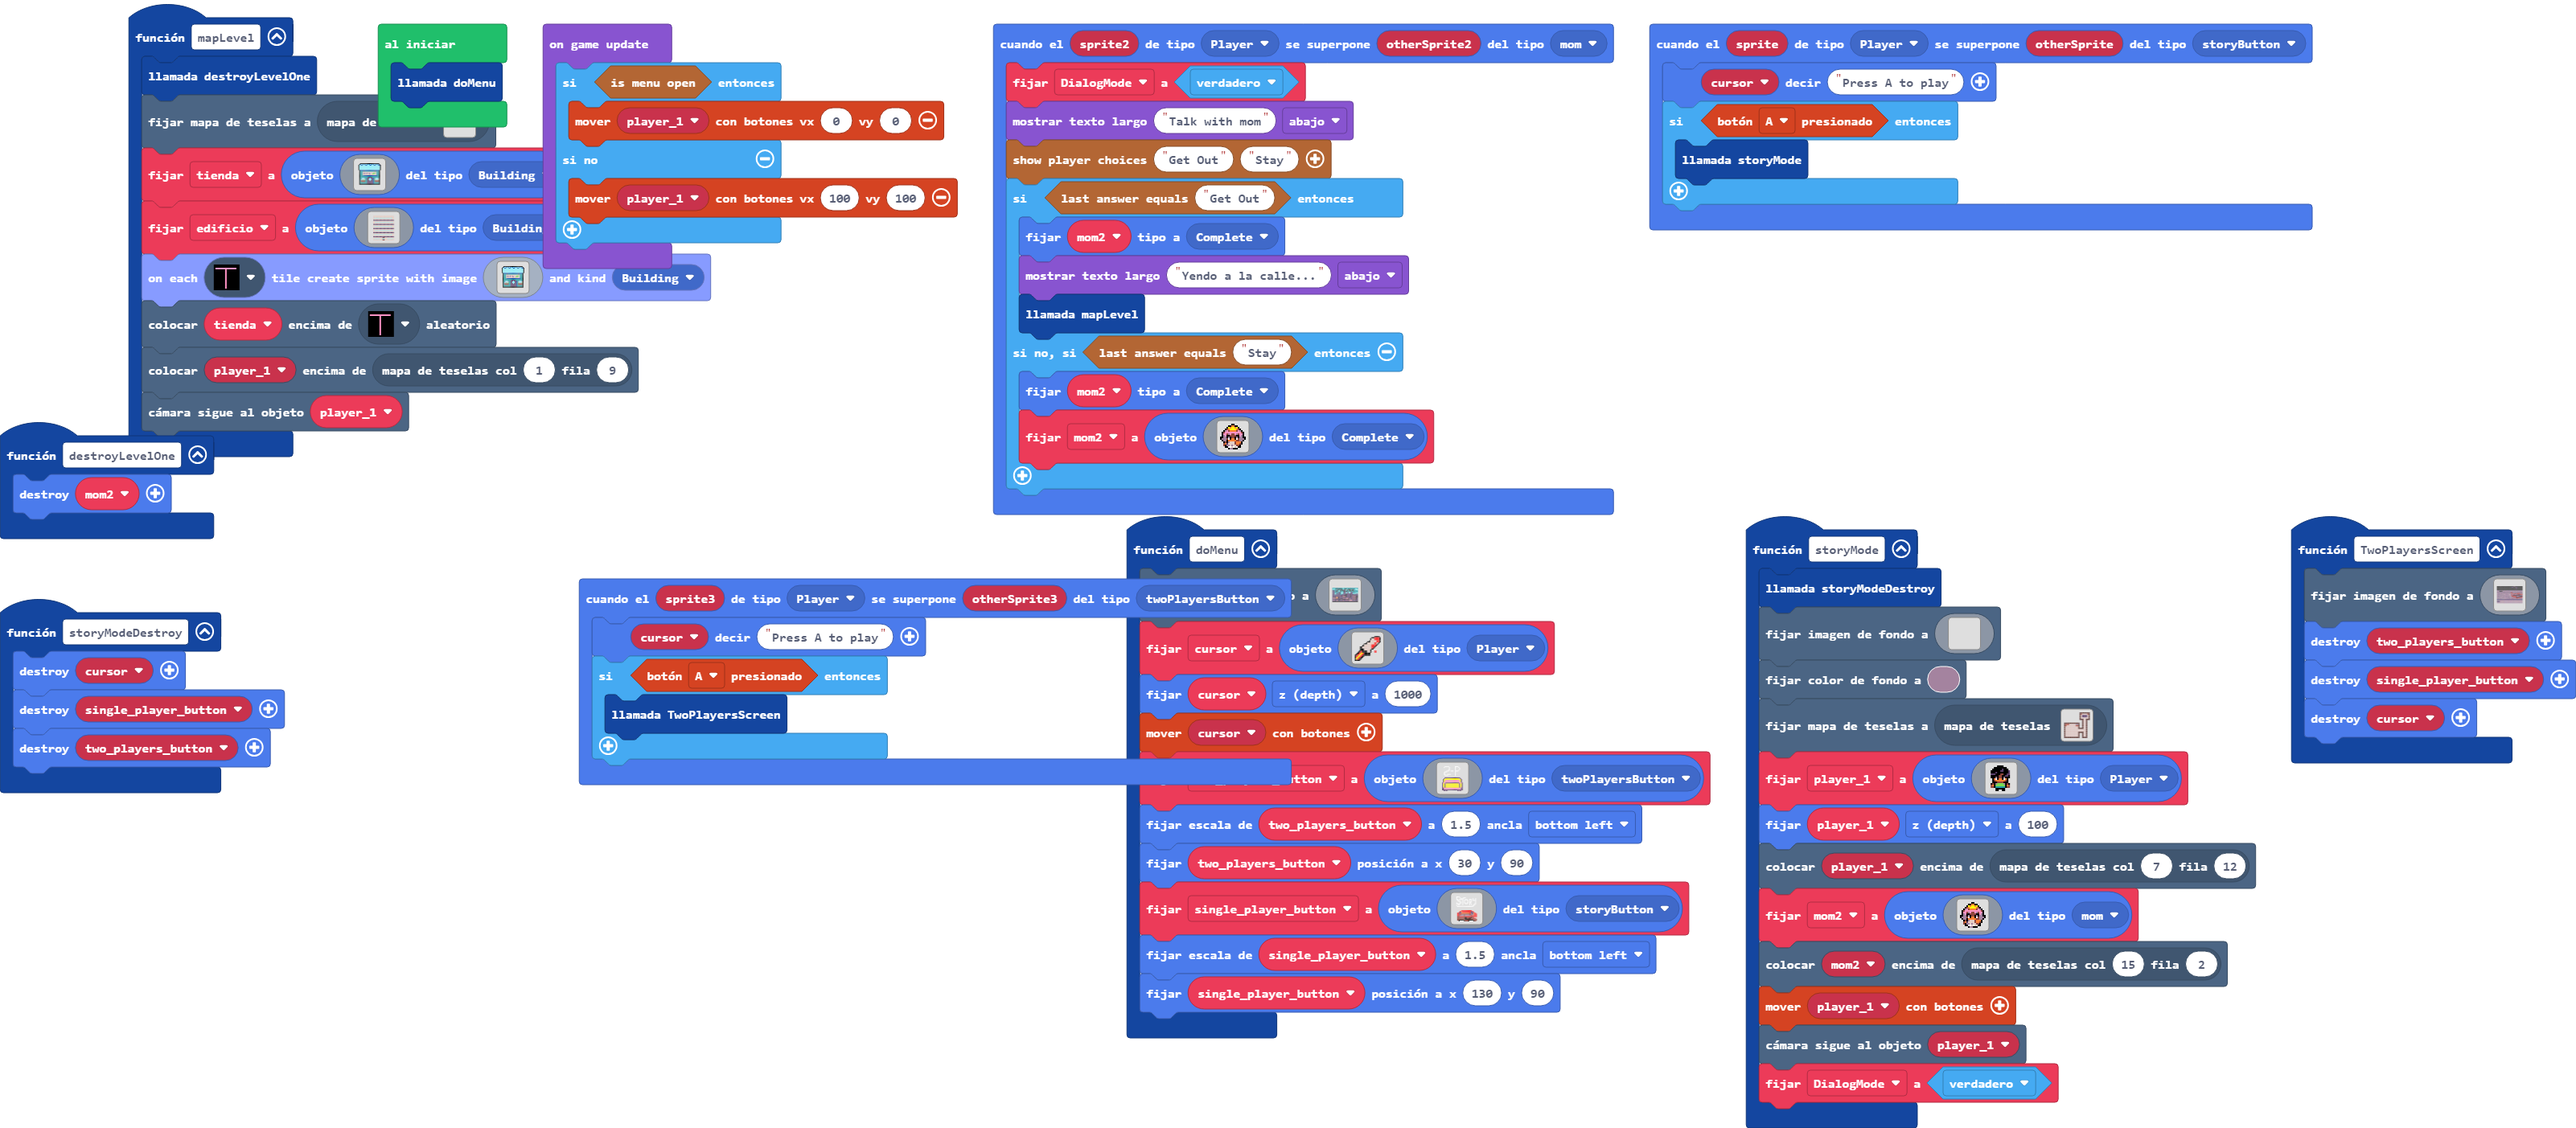
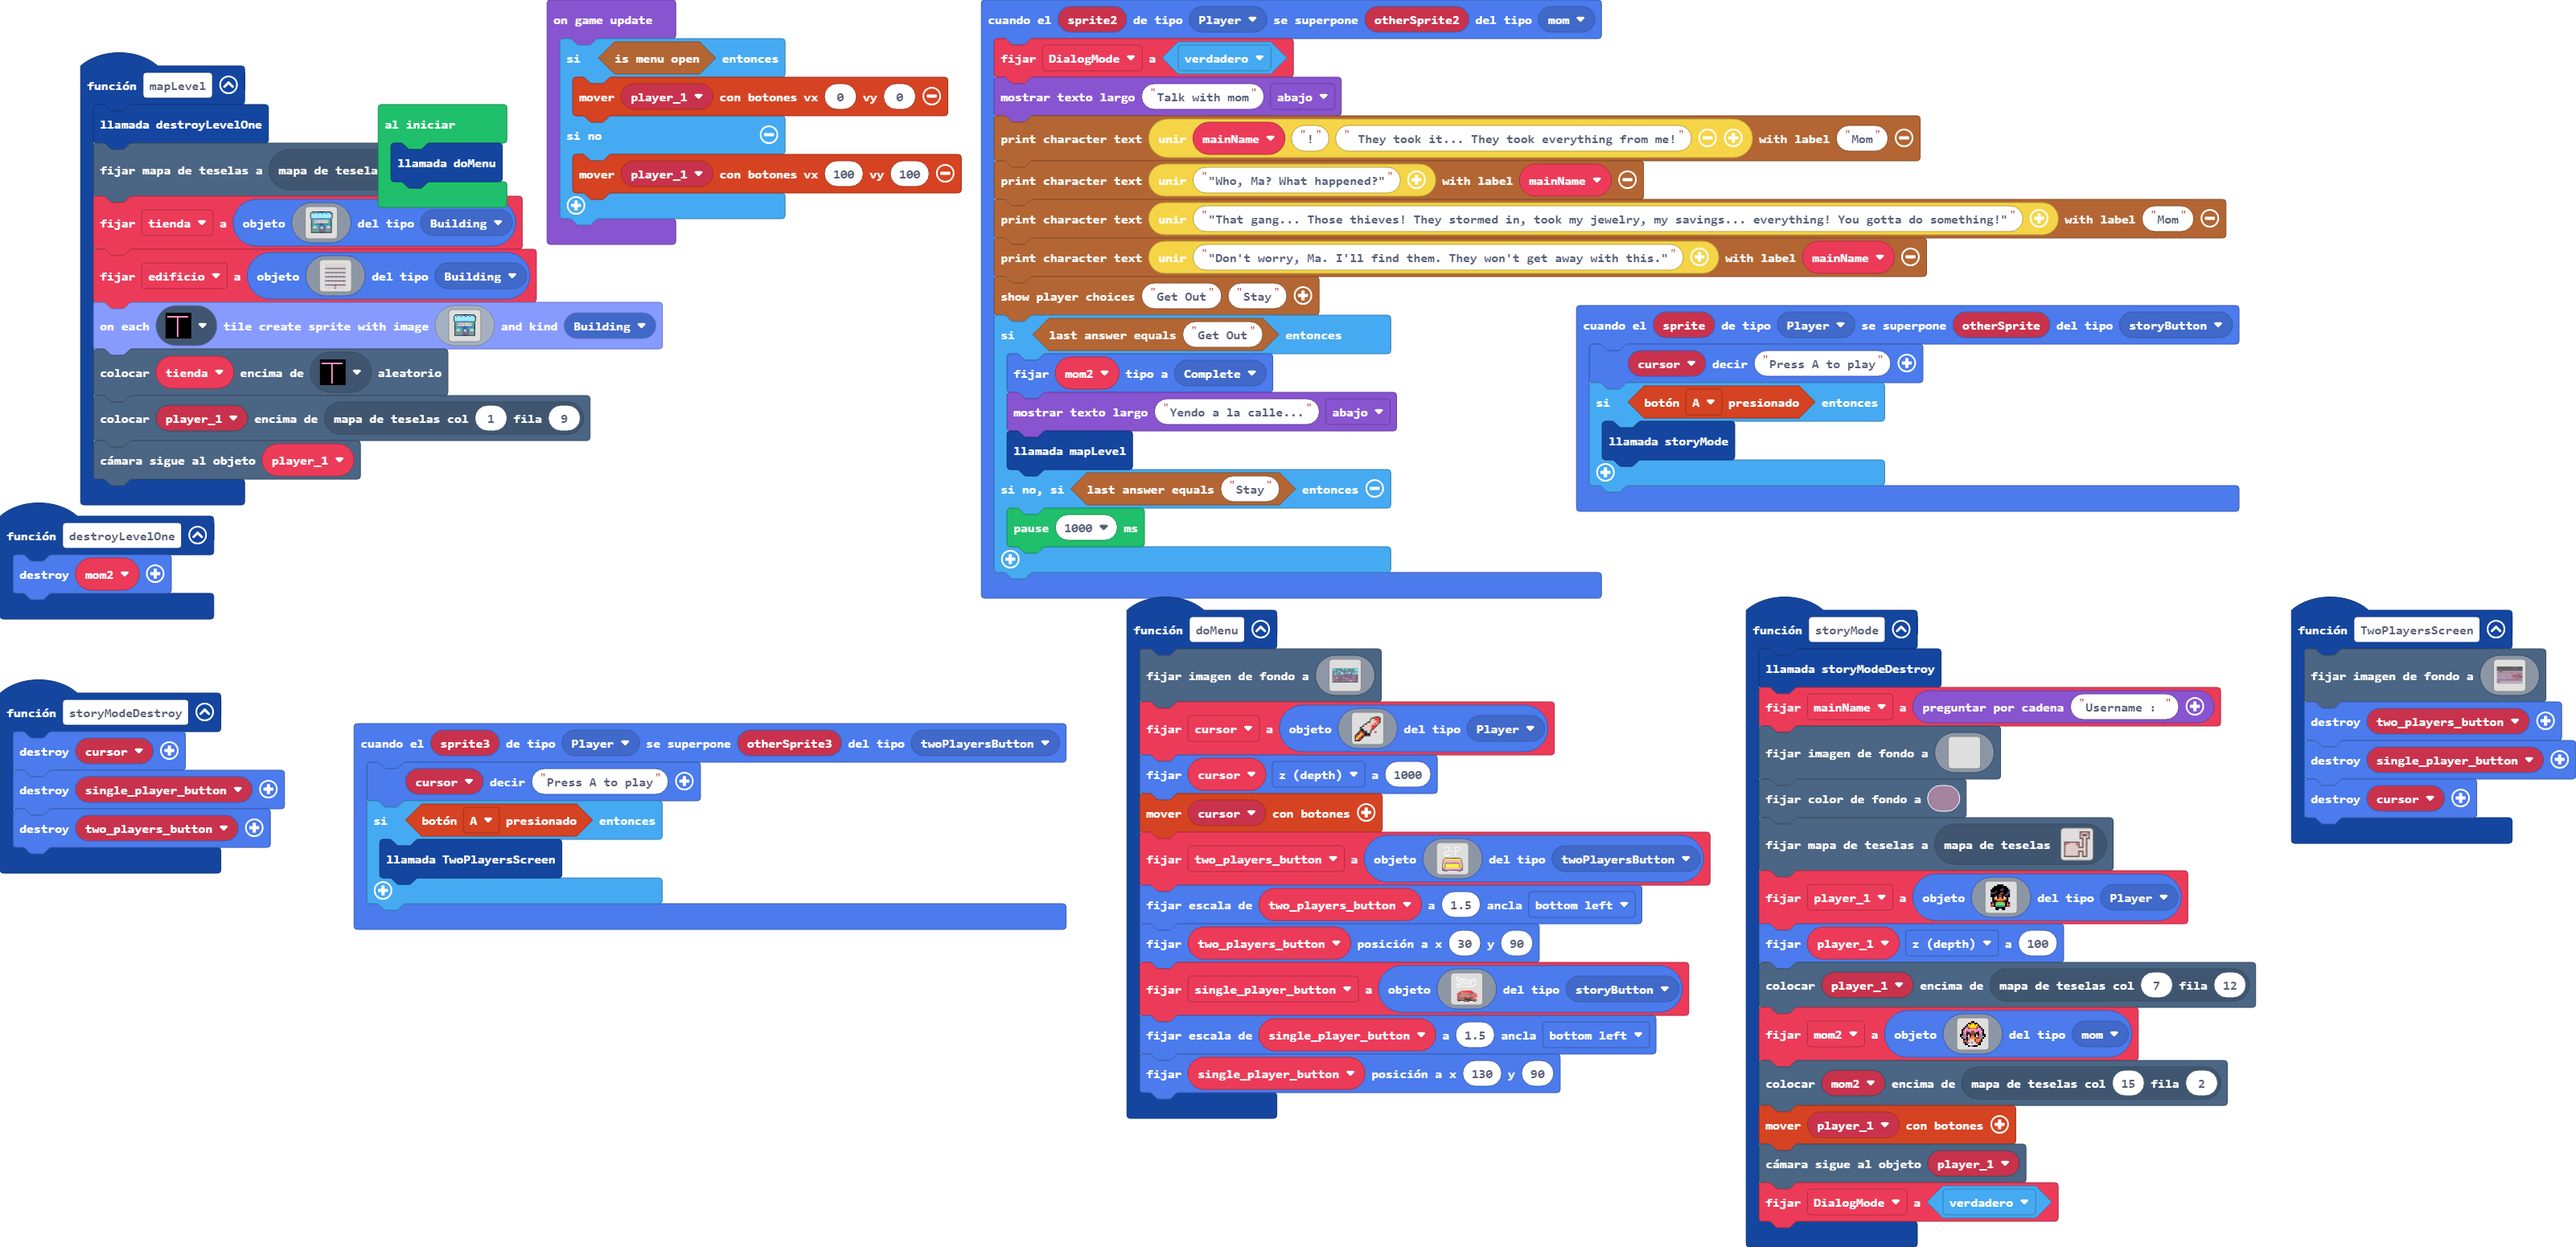
Dialog extended

diff --git a/main.ts b/main.ts
@@ -132,6 +132,7 @@ function TwoPlayersScreen () {
 }
 function storyMode () {
     storyModeDestroy()
+    mainName = game.askForString("Username : ")
     scene.setBackgroundImage(img`
         ................................................................................................................................................................
         ................................................................................................................................................................
@@ -586,31 +587,17 @@ sprites.onOverlap(SpriteKind.Player, SpriteKind.twoPlayersButton, function (spri
 sprites.onOverlap(SpriteKind.Player, SpriteKind.mom, function (sprite2, otherSprite2) {
     DialogMode = true
     game.showLongText("Talk with mom", DialogLayout.Bottom)
+    story.printCharacterText("" + mainName + "!" + " They took it... They took everything from me!", "Mom")
+    story.printCharacterText("\"Who, Ma? What happened?\"", mainName)
+    story.printCharacterText("\"That gang... Those thieves! They stormed in, took my jewelry, my savings... everything! You gotta do something!\"", "Mom")
+    story.printCharacterText("\"Don't worry, Ma. I'll find them. They won't get away with this.\"", mainName)
     story.showPlayerChoices("Get Out", "Stay")
     if (story.checkLastAnswer("Get Out")) {
         mom2.setKind(SpriteKind.Complete)
         game.showLongText("Yendo a la calle...", DialogLayout.Bottom)
         mapLevel()
     } else if (story.checkLastAnswer("Stay")) {
-        mom2.setKind(SpriteKind.Complete)
-        mom2 = sprites.create(img`
-            . . . . . . . f f . . . . . . . 
-            . . . . . f f 4 4 f f . . . . . 
-            . . . . f 5 4 5 5 4 5 f . . . . 
-            . . . f e 4 5 5 5 5 4 e f . . . 
-            . . f b 3 e 4 4 4 4 e 3 b f . . 
-            . f e 3 3 3 3 3 3 3 3 3 3 e f . 
-            . f 3 3 e b 3 e e 3 b e 3 3 f . 
-            . f b 3 f f e e e e f f 3 b f . 
-            f f b b f b f e e f b f b b f f 
-            f b b b e 1 f 4 4 f 1 e b b b f 
-            . f b b f 4 4 4 4 4 e e b b f . 
-            . . f e f b d d d e 4 4 4 f . . 
-            . . e 4 c d d d d e 4 4 e f . . 
-            . . e f b b d b d d e e f . . . 
-            . . . f f 1 1 d 1 d 1 f f . . . 
-            . . . . . f b b f f f . . . . . 
-            `, SpriteKind.Complete)
+        pause(1000)
     }
 })
 function destroyLevelOne () {
@@ -621,6 +608,7 @@ let tienda: Sprite = null
 let DialogMode = false
 let mom2: Sprite = null
 let player_1: Sprite = null
+let mainName = ""
 let two_players_button: Sprite = null
 let single_player_button: Sprite = null
 let cursor: Sprite = null

diff --git a/main.py b/main.py
@@ -130,8 +130,9 @@ def TwoPlayersScreen():
     sprites.destroy(single_player_button)
     sprites.destroy(cursor)
 def storyMode():
-    global player_1, mom2, DialogMode
+    global mainName, player_1, mom2, DialogMode
     storyModeDestroy()
+    mainName = game.ask_for_string("Username : ")
     scene.set_background_image(img("""
         ................................................................................................................................................................
                 ................................................................................................................................................................
@@ -603,35 +604,23 @@ sprites.on_overlap(SpriteKind.player,
     on_on_overlap2)
 
 def on_on_overlap3(sprite2, otherSprite2):
-    global DialogMode, mom2
+    global DialogMode
     DialogMode = True
     game.show_long_text("Talk with mom", DialogLayout.BOTTOM)
+    story.print_character_text("" + mainName + "!" + " They took it... They took everything from me!",
+        "Mom")
+    story.print_character_text("\"Who, Ma? What happened?\"", mainName)
+    story.print_character_text("\"That gang... Those thieves! They stormed in, took my jewelry, my savings... everything! You gotta do something!\"",
+        "Mom")
+    story.print_character_text("\"Don't worry, Ma. I'll find them. They won't get away with this.\"",
+        mainName)
     story.show_player_choices("Get Out", "Stay")
     if story.check_last_answer("Get Out"):
         mom2.set_kind(SpriteKind.Complete)
         game.show_long_text("Yendo a la calle...", DialogLayout.BOTTOM)
         mapLevel()
     elif story.check_last_answer("Stay"):
-        mom2.set_kind(SpriteKind.Complete)
-        mom2 = sprites.create(img("""
-                . . . . . . . f f . . . . . . . 
-                            . . . . . f f 4 4 f f . . . . . 
-                            . . . . f 5 4 5 5 4 5 f . . . . 
-                            . . . f e 4 5 5 5 5 4 e f . . . 
-                            . . f b 3 e 4 4 4 4 e 3 b f . . 
-                            . f e 3 3 3 3 3 3 3 3 3 3 e f . 
-                            . f 3 3 e b 3 e e 3 b e 3 3 f . 
-                            . f b 3 f f e e e e f f 3 b f . 
-                            f f b b f b f e e f b f b b f f 
-                            f b b b e 1 f 4 4 f 1 e b b b f 
-                            . f b b f 4 4 4 4 4 e e b b f . 
-                            . . f e f b d d d e 4 4 4 f . . 
-                            . . e 4 c d d d d e 4 4 e f . . 
-                            . . e f b b d b d d e e f . . . 
-                            . . . f f 1 1 d 1 d 1 f f . . . 
-                            . . . . . f b b f f f . . . . .
-            """),
-            SpriteKind.Complete)
+        pause(1000)
 sprites.on_overlap(SpriteKind.player, SpriteKind.mom, on_on_overlap3)
 
 def destroyLevelOne():
@@ -641,6 +630,7 @@ tienda: Sprite = None
 DialogMode = False
 mom2: Sprite = None
 player_1: Sprite = None
+mainName = ""
 two_players_button: Sprite = None
 single_player_button: Sprite = None
 cursor: Sprite = None
